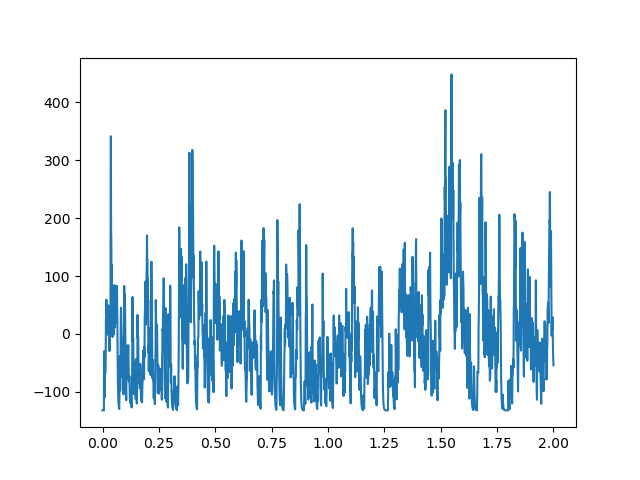
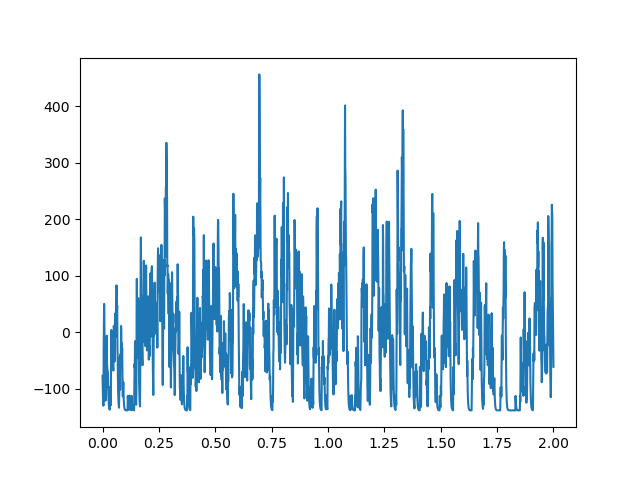
Update Methods That Use sim_ou_process Since the sim_ou_process is updated, methods that use it are updated as well.

diff --git a/scripts/corr_spikes_sims.py b/scripts/corr_spikes_sims.py
@@ -27,7 +27,7 @@ N_DT_CC = 20000 # number of time bins for cross correlation
 DT = 0.1 # time increment in ms
 N_NEURONS = 5 # number of neurons
 
-N_SECONDS = 1000
+N_SECONDS = 2000
 FS = 1000
 ALPHA = 300. # I don't know why ALPHA needs to be this high for the functions to work
 TAU_C = 1.0E-2
@@ -44,8 +44,8 @@ DATA_PATH = pjoin(BASE_PATH, "data/simulations/")
 
 def main():
     # simulate_spikes_general_doubly_stochastic()
-    simulate_spikes_homogeneous_pool()
-    # simulate_gaussian_mixture()
+    # simulate_spikes_homogeneous_pool()
+    simulate_gaussian_mixture()
 
 def simulate_spikes_general_doubly_stochastic():
     spikes = sim_spikes_general_2stoch(n_dt=N_DT_CC, n_neurons = N_NEURONS, \
@@ -70,8 +70,8 @@ def simulate_spikes_homogeneous_pool():
     #                 spikes[:,i_chunk*n_timepoints:(i_chunk+1)*n_timepoints] = \
     #                 sim_homogeneous_pool(rate=FIRING_RATE, fs=FS, n_seconds=CHUNK_SIZE, \
     #                 alpha = ALPHA, tau_c=TAU_C)
-    spikes, rand_process = sim_homogeneous_pool(rate=FIRING_RATE, fs=FS, n_seconds=N_SECONDS, \
-                         alpha = ALPHA, tau_c=TAU_C)
+    spikes, rand_process = sim_homogeneous_pool(mu=FIRING_RATE, fs=FS, n_seconds=N_SECONDS, \
+                         variance = 300, tau_c=TAU_C)
 
     # Plot random process
     plt.plot(rand_process[:1000], linewidth=0.5)
@@ -90,7 +90,7 @@ def simulate_spikes_homogeneous_pool():
     plt.close('all')
 
     # Plot coincidences
-    plot_coincidences(spikes, maxlags = int(TAU_C * FS * 2), plot_model = True)
+    plot_coincidences(spikes, maxlags = int(TAU_C * FS * 2) * 3, plot_model = True)
     plt.savefig(pjoin(FIGURE_PATH,'homogeneous_pool_coincidences_plot.png'))
     plt.close('all')
 
@@ -98,8 +98,11 @@ def simulate_gaussian_mixture():
     covariances, firing_rates_array = get_correlation_matrices(N_NEURONS, FIRING_RATE, .1, 0)
 
     # Plot spike roster
+    # print(covariances)
     plt.pcolor(covariances)
+    plt.colorbar()
     plt.gca().invert_yaxis()
+    plt.title('covariance matrix')
     plt.savefig(pjoin(FIGURE_PATH,'gaussian_mixture_covariance_matrix.png'))
     plt.close('all')
 
@@ -110,20 +113,23 @@ def simulate_gaussian_mixture():
     #     spikes[:,i_chunk*n_timepoints:(i_chunk+1)*n_timepoints], \
     #             inst_firing_rates[:,i_chunk*n_timepoints:(i_chunk+1)*n_timepoints], _ = \
     #             gen_spikes_mixture(CHUNK_SIZE, covariances, firing_rates_array, FS, TAU_C, ALPHA)
-    spikes, inst_firing_rates, _ = gen_spikes_mixture(N_SECONDS, covariances, firing_rates_array, FS, TAU_C, ALPHA)
+    spikes, inst_firing_rates, _ = gen_spikes_mixture(N_SECONDS, covariances, firing_rates_array, FS, TAU_C)
     
     # Plot instantaneous firing rates
+    # detrended_rates = np.array([inst_firing_rates[a,:5000] for a in range(len(inst_firing_rates))])
     plt.plot(inst_firing_rates.T[:1000,:], linewidth=0.5)
+    # plt.plot(detrended_rates.T)
     plt.savefig(pjoin(FIGURE_PATH,'gaussian_mixture_firing_rate_plot.png'))
     plt.close('all')
 
     # Plot correlations of firing rates
-    plot_correlations(inst_firing_rates[:,:5000], maxlags=20, plot_model=True)
+    detrended_rates = np.array([signal.detrend(inst_firing_rates[a,:5000]) for a in range(len(inst_firing_rates))])
+    plot_correlations(detrended_rates, maxlags=20, plot_model=True)
     plt.savefig(pjoin(FIGURE_PATH,'gaussian_mixture_firing_rate_correlations_plot.png'))
     plt.close('all')
 
     # Plot coincidences
-    plot_coincidences(spikes, maxlags = int(TAU_C * FS * 2), plot_model=True)
+    plot_coincidences(spikes, maxlags = int(TAU_C * FS * 2) * 3, plot_model=True)
     plt.savefig(pjoin(FIGURE_PATH,'gaussian_mixture_coincidences_plot.png'))
     plt.close('all')
 

diff --git a/sim_field/funcs.py b/sim_field/funcs.py
@@ -218,15 +218,15 @@ def get_correlation_matrices(n_neurons, firing_rate, xcorr_scalar, firing_rate_s
 
     return covariances, firing_rates_array
 
-def gen_spikes_mixture(n_seconds, covariances, firing_rates_array, fs, tau_c, alpha):
+def gen_spikes_mixture(n_seconds, covariances, firing_rates_array, fs, tau_c, variance = 300.):
     
-    sigma=(2*tau_c*alpha)**0.5
+    # sigma=(2*tau_c*alpha)**0.5
     n_neurons = len(covariances)
 
     rand_processes = np.zeros((n_neurons, int(n_seconds * fs)))
     for i_neuron in range(n_neurons):
         # rand_processes[i_neuron] = sim_random_walk(n_seconds, fs, theta=1/tau_c, mu=0, sigma=sigma)
-        rand_processes[i_neuron], _ = sim_ou_process(n_seconds, fs, tau_c, mu=firing_rates_array[i_neuron], sigma=sigma)
+        rand_processes[i_neuron], _ = sim_ou_process(n_seconds, fs, tau_c, mu=firing_rates_array[i_neuron], sigma=variance**0.5)
 
     # compute cholesky
     root_covariances = linalg.cholesky(covariances).T # Choleskey Factor L(C = LLT)
@@ -313,10 +313,10 @@ def sim_field(ei_ratio, n_seconds=2 * 60, firing_rate_e=2, firing_rate_i=5, n_ne
     lfp_i = signal.detrend(g_i, type='constant') * (e_reversal_i - v_rest)
     return lfp_e, lfp_i, times, spk_E, spk_I
 
-def sim_lfp_mixture(n_seconds=2 * 60, n_neurons = 50, firing_rate = 20., tau_c = 1.0E-2, alpha = 100000., fs=1000, t_ker=1, tau_r=0.0001, tau_d=0.002, e_reversal = 0., v_rest=-65.):
-    covariances, firing_rates_array = get_correlation_matrices(n_neurons, firing_rate, .1, 0)
+def sim_lfp_mixture(n_seconds=2 * 60, n_neurons = 50, firing_rate = 20., tau_c = 1.0E-2, variance = 300., fs=1000, t_ker=1, tau_r=0.0001, tau_d=0.002, e_reversal = 0., v_rest=-65.):
+    covariances, firing_rates_array = get_correlation_matrices(n_neurons, firing_rate, 1, 0)
     kernel = sim_synaptic_kernel(t_ker, fs, tau_r, tau_d)
-    spikes, _, _ = gen_spikes_mixture(n_seconds, covariances, firing_rates_array, fs, tau_c, alpha)
+    spikes, _, _ = gen_spikes_mixture(n_seconds, covariances, firing_rates_array, fs, tau_c, variance)
     lfps = []
     for i_neuron in range(len(spikes)):
         # lfps[i_neuron, np.newaxis] = signal.detrend(np.convolve(spikes[i_neuron], kernel, 'valid'), type='constant')
@@ -326,9 +326,9 @@ def sim_lfp_mixture(n_seconds=2 * 60, n_neurons = 50, firing_rate = 20., tau_c =
     lfp = lfps.sum(axis = 0)
     return lfp, lfps
 
-def sim_lfp_pool(n_seconds=2 * 60, n_neurons = 50, firing_rate = 20., tau_c = 1.0E-2, alpha = 100000., fs=1000, t_ker=1, tau_r=0.0001, tau_d=0.002, e_reversal = 0., v_rest=-65.):
+def sim_lfp_pool(n_seconds=2 * 60, n_neurons = 50, firing_rate = 20., tau_c = 1.0E-2, variance = 300., fs=1000, t_ker=1, tau_r=0.0001, tau_d=0.002, e_reversal = 0., v_rest=-65.):
     kernel = sim_synaptic_kernel(t_ker, fs, tau_r, tau_d)
-    spikes, _ = sim_homogeneous_pool(n_neurons, firing_rate, n_seconds, fs, alpha, tau_c)
+    spikes, _ = sim_homogeneous_pool(n_neurons, firing_rate, n_seconds = n_seconds, fs = fs, tau_c = tau_c, variance=variance)
     lfps = []
     for i_neuron in range(len(spikes)):
         lfps.append(signal.detrend(np.convolve(spikes[i_neuron], kernel, 'valid'), type='constant') * (e_reversal - v_rest))

diff --git a/scripts/lfp_sims.py b/scripts/lfp_sims.py
@@ -20,7 +20,7 @@ import pandas as pd
 import numpy as np
 from neurodsp.spectral import compute_spectrum
 from neurodsp.plts.spectral import plot_power_spectra
-
+from scipy import signal
 
 ###################################################################################################
 ###################################################################################################
@@ -234,7 +234,7 @@ def assess_corr_across_freqs(psd_batch, freq):
 
 def simulate_lfp_mixture():
     t = np.arange(0, N_SECONDS, 1/FS)
-    lfp, lfps = sim_lfp_mixture(n_neurons = N_NEURONS, alpha = 1000000.)
+    lfp, lfps = sim_lfp_mixture(n_neurons = N_NEURONS)
     freq, psd = compute_spectrum(lfp, FS, method='welch', avg_type='median',
                                  nperseg=FS, noverlap=int(FS/2))
     # Plot time-series
@@ -243,12 +243,17 @@ def simulate_lfp_mixture():
     plt.savefig(pjoin(FIGURE_PATH,'corr_spikes_mixture_lfp.png'))
     plt.close('all')
 
+    # Plot lfp autocorr
+    plot_correlations(lfp[:10000], plot_model = True)
+    plt.savefig(pjoin(FIGURE_PATH,'mixture_lfp_autocorr.png'))
+    plt.close('all')
+
     # Plot power spectra
     plot_power_spectra([freq], [psd],['Mixture'])
     plt.savefig(pjoin(FIGURE_PATH,'corr_spikes_mixutre_psd.png'))
 
 def simulate_lfp_pool():
-    spikes, rand_process = sim_homogeneous_pool(n_neurons = 1, n_seconds = N_SECONDS, alpha = ALPHA)
+    spikes, rand_process = sim_homogeneous_pool(n_neurons = 1, n_seconds = N_SECONDS)
     
     # Plot rate vs time
     # print(np.linspace(0, 2, 2000).shape, rand_process[:2000].shape)
@@ -257,7 +262,8 @@ def simulate_lfp_pool():
     plt.close('all')
 
     # Plot rate autocorr
-    plt.acorr(rand_process[:5000], maxlags = 20)
+    rand_process_mean_removed = signal.detrend(rand_process, type='constant')
+    plt.acorr(rand_process_mean_removed[:5000], maxlags = 20)
     plt.savefig(pjoin(FIGURE_PATH,'random_walk_rate_autocorr.png'))
     plt.close('all')
 
@@ -269,18 +275,19 @@ def simulate_lfp_pool():
     plt.close('all')
 
     # Plot coincidences
-    plot_coincidences(spikes)
+    plot_coincidences(spikes, plot_model = True)
     plt.savefig(pjoin(FIGURE_PATH,'random_walk_spike_coincidences.png'))
     plt.close('all')
 
-    lfp, _ = sim_lfp_pool(n_neurons = 100, alpha = ALPHA)
+    lfp, _ = sim_lfp_pool(n_neurons = 100)
     # Plot lfp
     plt.plot(t[:2000], lfp[:2000])
     plt.savefig(pjoin(FIGURE_PATH,'random_walk_lfp.png'))
     plt.close('all')
 
     # Plot lfp accor
-    plt.acorr(lfp[:10000], maxlags = 20)
+    # plt.acorr(lfp[:10000], maxlags = 20)
+    plot_correlations(lfp[:10000], plot_model = True)
     plt.savefig(pjoin(FIGURE_PATH,'random_walk_lfp_autocorr.png'))
     plt.close('all')
 
@@ -291,7 +298,7 @@ def simulate_lfp_pool():
     plt.savefig(pjoin(FIGURE_PATH,'random_walk_psd.png'))
     plt.close('all')
 
-    _, lfps = sim_lfp_pool(n_neurons = 5, alpha = ALPHA)
+    _, lfps = sim_lfp_pool(n_neurons = 5)
     # Plot lfps
     plt.plot(t[:2000], lfps[0,:2000])
     plt.plot(t[:2000], lfps[1,:2000])

diff --git a/sim_field/utils.py b/sim_field/utils.py
@@ -7,7 +7,7 @@ from scipy.optimize import minimize
 ##########################################################################
 ##########################################################################
 
-def plot_coincidences(spikes, maxlags=20, coincidences = None, plot_model=False):
+def plot_coincidences(spikes, maxlags=20, coincidences = None, plot_model=False, normalize = True):
     n_neurons = spikes.shape[0]
     if (n_neurons == 1):
         if coincidences is None:
@@ -27,6 +27,8 @@ def plot_coincidences(spikes, maxlags=20, coincidences = None, plot_model=False)
                 for i in range(1, maxlags + 1):
                     coincidences[i_row, i_col,maxlags + i] = np.logical_and(spikes[i_row][i:], spikes[i_col][:-i]).sum()
                     coincidences[i_row, i_col,maxlags - i] = np.logical_and(spikes[i_row][:-i], spikes[i_col][i:]).sum()
+                if normalize == True:
+                    coincidences[i_row, i_col, : ] = coincidences[i_row, i_col, : ] / coincidences[i_row, i_col, : ].max()
 
     fig, axes = plt.subplots(figsize=(10, 10), sharex=False, sharey=True, ncols=n_neurons - 1, nrows= n_neurons - 1, tight_layout = True)
     for i in range(n_neurons - 1):
@@ -36,10 +38,10 @@ def plot_coincidences(spikes, maxlags=20, coincidences = None, plot_model=False)
             else:
                 axes[i, j].bar(range(-maxlags, maxlags + 1), coincidences[i+1,j])
                 if plot_model:
-                    x0 = [1, 1000]
+                    x0 = [1, 1]
                     lags = range(-maxlags, maxlags + 1)
                     corr = coincidences[i+1,j]
-                    result = minimize(calc_model_error, x0=x0, args=(corr, lags), method = 'Nelder-Mead')
+                    result = minimize(calc_model_error, x0=x0, args=(corr, lags))
                     tau_c_fit = result['x'][0]
                     alpha_fit = result['x'][1]
                     model = model_acorr(lags, alpha_fit, tau_c_fit)
@@ -51,6 +53,19 @@ def plot_coincidences(spikes, maxlags=20, coincidences = None, plot_model=False)
 def plot_correlations(spikes, plot_model=False, maxlags=20, tau_c=1, alpha=1,
                      plot_all=False):
     n_neurons = spikes.shape[0]
+    if (spikes.ndim == 1):
+        lags, corr, _, _  = plt.xcorr(spikes.astype(float), spikes.astype(float), maxlags=maxlags)
+        if plot_model:
+                # t = np.arange(-maxlags,maxlags)
+                x0 = [1, 1]
+                result = minimize(calc_model_error, x0=x0, args=(corr, lags))
+                tau_c_fit = result['x'][0]
+                alpha_fit = result['x'][1]
+                model = model_acorr(lags, alpha_fit, tau_c_fit)
+                # cross_covar = alpha * np.exp(-abs(t)/(tau_c * 1000))
+                plt.plot(lags, model)
+                plt.title('tau: %0.4f' %tau_c_fit)
+        return
     fig, ax = plt.subplots(nrows=n_neurons, ncols=n_neurons, figsize=(14,14), sharey=True, tight_layout = True)
     for i_row in range(n_neurons):
         for i_col in range(n_neurons):
